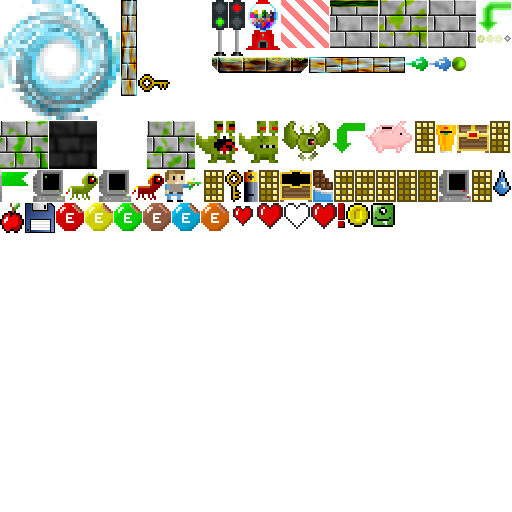
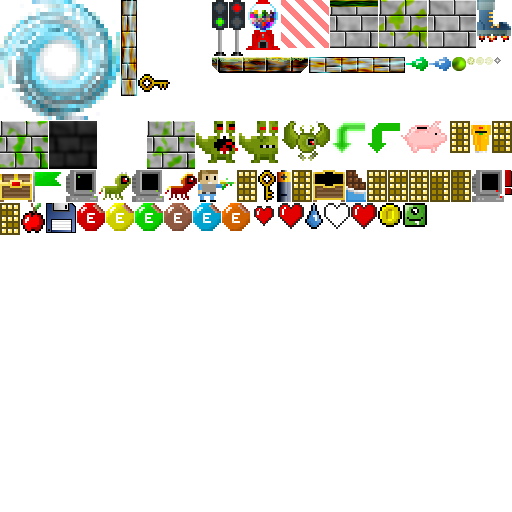
Added double jump boots.

Changed region(s): [[0.0, 0.2188, 1.0, 0.4688], [0.9062, 0.0, 1.0, 0.125]]

diff --git a/src/entities/boots.c b/src/entities/boots.c
@@ -1,0 +1,102 @@
+/*
+Copyright (C) 2019 Parallel Realities
+
+This program is free software; you can redistribute it and/or
+modify it under the terms of the GNU General Public License
+as published by the Free Software Foundation; either version 2
+of the License, or (at your option) any later version.
+
+This program is distributed in the hope that it will be useful,
+but WITHOUT ANY WARRANTY; without even the implied warranty of
+MERCHANTABILITY or FITNESS FOR A PARTICULAR PURPOSE.
+
+See the GNU General Public License for more details.
+
+You should have received a copy of the GNU General Public License
+along with this program; if not, write to the Free Software
+Foundation, Inc., 59 Temple Place - Suite 330, Boston, MA  02111-1307, USA.
+
+*/
+
+#include "boots.h"
+
+static void tick(void);
+static void draw(void);
+static void touch(Entity *other);
+
+static AtlasImage *bootsTexture = NULL;
+static AtlasImage *sparkleTexture;
+
+void initBoots(Entity *e)
+{
+	Item *b;
+
+	b = malloc(sizeof(Item));
+	memset(b, 0, sizeof(Item));
+
+	e->typeName = "boots";
+	e->type = ET_ITEM;
+	e->data = b;
+	e->flags = EF_DELETE;
+	e->tick = tick;
+	e->draw = draw;
+	e->touch = touch;
+
+	if (bootsTexture == NULL)
+	{
+		bootsTexture = getAtlasImage("gfx/entities/boots.png", 1);
+		sparkleTexture = getAtlasImage("gfx/particles/light.png", 1);
+	}
+
+	e->atlasImage = bootsTexture;
+	e->w = e->atlasImage->rect.w;
+	e->h = e->atlasImage->rect.h;
+}
+
+static void tick(void)
+{
+	Item *h;
+
+	h = (Item*)self->data;
+
+	if (self->isOnGround && --h->thinkTime <= 0)
+	{
+		self->dy = -12;
+
+		h->thinkTime = FPS * (1 + rand() % 8);
+	}
+}
+
+static void draw(void)
+{
+	int x, y;
+
+	x = self->x + (self->w / 2) - world.camera.x;
+	y = self->y + (self->h / 2) - world.camera.y;
+
+	SDL_SetTextureColorMod(sparkleTexture->texture, 64, 128, 255);
+	SDL_SetTextureAlphaMod(sparkleTexture->texture, 64);
+
+	blitAtlasImage(sparkleTexture, x, y, 1, SDL_FLIP_NONE);
+
+	SDL_SetTextureColorMod(sparkleTexture->texture, 255, 255, 255);
+	SDL_SetTextureAlphaMod(sparkleTexture->texture, 255);
+
+	blitAtlasImage(self->atlasImage, self->x - world.camera.x, self->y - world.camera.y, 0, SDL_FLIP_NONE);
+}
+
+static void touch(Entity *other)
+{
+	if (self->alive == ALIVE_ALIVE && other != NULL && other->type == ET_PLAYER)
+	{
+		game.hasDoubleJump = 1;
+
+		self->alive = ALIVE_DEAD;
+
+		addPowerupParticles(self->x + self->w / 2, self->y + self->h / 2);
+
+		addGameText(self->x, self->y, "Double Jump!");
+
+		playSound(SND_POWERUP, -1);
+	}
+}

diff --git a/src/entities/boots.h b/src/entities/boots.h
@@ -1,0 +1,31 @@
+/*
+Copyright (C) 2019 Parallel Realities
+
+This program is free software; you can redistribute it and/or
+modify it under the terms of the GNU General Public License
+as published by the Free Software Foundation; either version 2
+of the License, or (at your option) any later version.
+
+This program is distributed in the hope that it will be useful,
+but WITHOUT ANY WARRANTY; without even the implied warranty of
+MERCHANTABILITY or FITNESS FOR A PARTICULAR PURPOSE.
+
+See the GNU General Public License for more details.
+
+You should have received a copy of the GNU General Public License
+along with this program; if not, write to the Free Software
+Foundation, Inc., 59 Temple Place - Suite 330, Boston, MA  02111-1307, USA.
+
+*/
+
+#include "../common.h"
+
+extern void addGameText(int x, int y, char *format, ...);
+extern void addPowerupParticles(int x, int y);
+extern void blitAtlasImage(AtlasImage *atlasImage, int x, int y, int center, SDL_RendererFlip flip);
+extern AtlasImage *getAtlasImage(char *filename, int required);
+extern void playSound(int snd, int ch);
+
+extern Entity *self;
+extern Game game;
+extern World world;

diff --git a/src/game/load.c b/src/game/load.c
@@ -56,6 +56,7 @@ static void loadGameData(cJSON *root)
 	game.coins = cJSON_GetObjectItem(root, "coins")->valueint;
 	game.keys = cJSON_GetObjectItem(root, "keys")->valueint;
 	game.autoFire = cJSON_GetObjectItem(root, "autoFire")->valueint;
+	game.hasDoubleJump = cJSON_GetObjectItem(root, "hasDoubleJump")->valueint;
 }
 
 static void loadStages(cJSON *root)

diff --git a/src/game/save.c b/src/game/save.c
@@ -62,6 +62,7 @@ static void saveGameData(cJSON *root)
 	cJSON_AddNumberToObject(gameJSON, "coins", game.coins);
 	cJSON_AddNumberToObject(gameJSON, "keys", game.keys);
 	cJSON_AddNumberToObject(gameJSON, "autoFire", game.autoFire);
+	cJSON_AddNumberToObject(gameJSON, "hasDoubleJump", game.hasDoubleJump);
 
 	cJSON_AddItemToObject(root, "game", gameJSON);
 }

diff --git a/src/world/entityFactory.c b/src/world/entityFactory.c
@@ -30,6 +30,7 @@ void initEntityFactory(void)
 	memset(&initFuncHead, 0, sizeof(InitFunc));
 	initFuncTail = &initFuncHead;
 
+	addInitFunc("boots", initBoots);
 	addInitFunc("chest", initChest);
 	addInitFunc("door", initDoor);
 	addInitFunc("greenFlyingCyclops", initGreenFlyingCyclops);

diff --git a/src/world/entityFactory.h b/src/world/entityFactory.h
@@ -39,6 +39,7 @@ extern void initSavePoint(Entity *e);
 extern void initStartPoint(Entity *e);
 extern void initTrafficLight(Entity *e);
 extern void initTransferCube(Entity *e);
+extern void initBoots(Entity *e);
 extern long lookup(const char *key);
 
 extern Entity *self;
